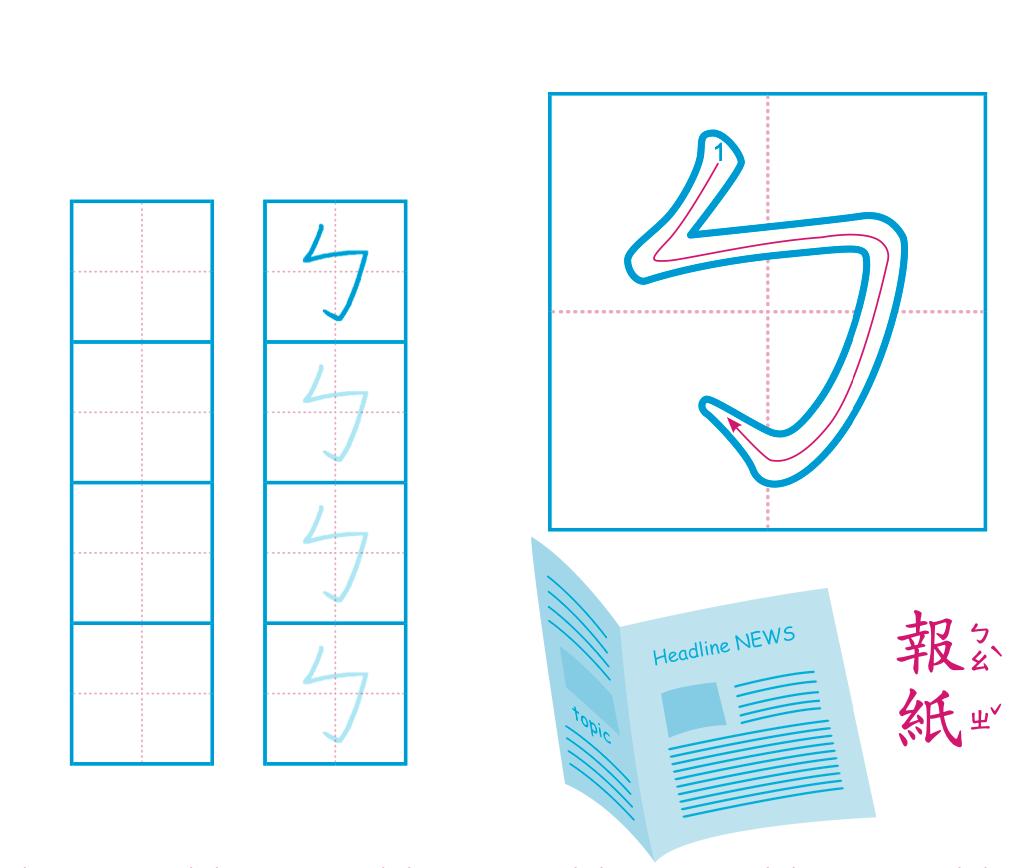
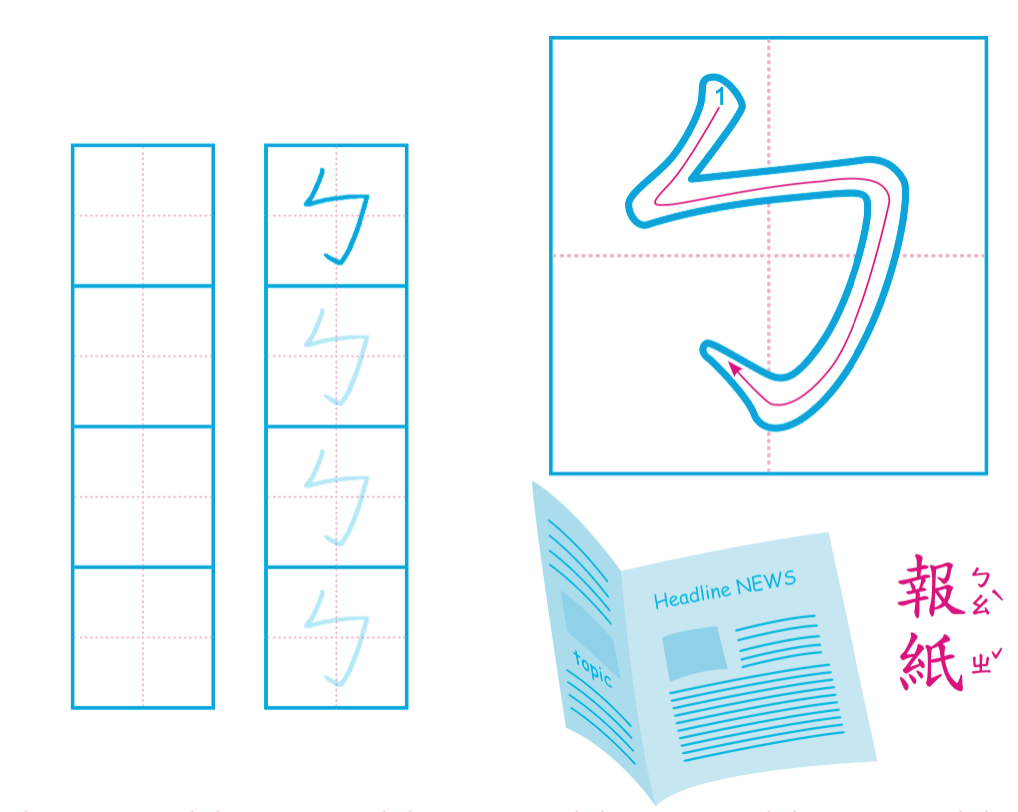
Add features to change level content based on id in drawzhuyin

diff --git a/view/game/drawZhuyin.html b/view/game/drawZhuyin.html
@@ -1,45 +1,48 @@
 <!DOCTYPE html>
 <html lang="en">
-<head>
-    <meta charset="UTF-8">
-    <meta name="viewport" content="width=device-width, initial-scale=1.0">
-  
-    <link rel="stylesheet" href="../../CSS/game/drawZhuyin.css">
-    <link rel="stylesheet" href="../../CSS/interface.css">
-    <link rel="stylesheet" href="../../CSS/icon.css">
-</head>
-<body class="style" background="../../photo/background.png" >
-   <div class="zhuyin"> 
-    <img  src="../../image/zhuyin/b.png"  />
-    <div  class="anvas write" >
-      <canvas  class="draw" width="120px" height="122.5px"></canvas>
-      <canvas  class="draw" width="120px" height="122.5px"></canvas>
-      <canvas  class="draw" width="120px" height="122.5px"></canvas>
-      <canvas  class="draw" width="120px" height="122.5px"></canvas>
-    </div>
-    <div  class="anvas write2" >
-      <canvas  class="draw" width="120px" height="122.5px"></canvas>
-      <canvas  class="draw" width="120px" height="122.5px"></canvas>
-      <canvas  class="draw" width="120px" height="122.5px"></canvas>
-      <canvas  class="draw" width="120px" height="122.5px"></canvas>
-    </div>
-</div>
-   <script src="../../model/game/drawZhuyin.js"></script>
 
-   <div>
+<head>
+  <meta charset="UTF-8">
+  <meta name="viewport" content="width=device-width, initial-scale=1.0">
+
+  <link rel="stylesheet" href="../../CSS/game/drawZhuyin.css">
+  <link rel="stylesheet" href="../../CSS/interface.css">
+  <link rel="stylesheet" href="../../CSS/icon.css">
+
+</head>
+
+<body class="style" background="../../photo/background.png" onload="onload()">
+  <div class="zhuyin">
+    <img src="../../image/zhuyin/b.png" />
+    <div class="anvas write">
+      <canvas class="draw" width="120px" height="122px"></canvas>
+      <canvas class="draw" width="120px" height="122px"></canvas>
+      <canvas class="draw" width="120px" height="122px"></canvas>
+      <canvas class="draw" width="120px" height="122px"></canvas>
+    </div>
+    <div class="anvas write2">
+      <canvas class="draw" width="120px" height="122px"></canvas>
+      <canvas class="draw" width="120px" height="122px"></canvas>
+      <canvas class="draw" width="120px" height="122px"></canvas>
+      <canvas class="draw" width="120px" height="122px"></canvas>
+    </div>
+  </div>
+  <script src="../../model/game/drawZhuyin.js"></script>
+
+  <div>
     <a href="../../exam_phonetic copy.html" class="sosfloat" id="menu-share">
       <i class="fab fa-share my-float"><img src="../../photo/help.png" width="70%"></i>
-      </a>
+    </a>
   </div>
-<div>
+  <div>
     <a href="../../view/level/nantou.html" class="returnfloat" id="menu-share">
-      <i class="fab fa-share return-float"><img src="../../photo/return.png" ></i>
-      </a>
+      <i class="fab fa-share return-float"><img src="../../photo/return.png"></i>
+    </a>
   </div>
   <div>
     <a href="../../test1.html" class="homefloat" id="menu-share">
       <i class="fab fa-share my-float"><img src="../../photo/gobackhome.png" width="70%"></i>
-      </a>
+    </a>
   </div>
 </body>
 

diff --git a/view/level/Nantou.html b/view/level/Nantou.html
@@ -30,12 +30,21 @@
             top: -140px;
             left: -428px;
         }
+        .level2{
+            width: 110px;
+            position: relative;
+            z-index: 10;
+            top: -240px;
+            left: -428px;
+        }
     </style>
 </head>
-<body class="style" background="../../image/map/kraftPaper2.jpg">
+<body class="style" background="../../image/map/kraftPaper2.jpg" >
     <div class="map"> 
         <img class="terrain" src="../../image/map/Nantou.png" />
-        <img class="level1" src="../../image/icon/herbal-tea.png" onclick="javascript:location.href='../../view/game/b.html'" />
+        <img class="level1" src="../../image/icon/herbal-tea.png" onclick="location.href='../../view/game/drawzhuyin.html?id=b'" />
+        <img class="level2" src="../../image/icon/herbal-tea.png" onclick="location.href='../../view/game/drawzhuyin.html?id=p'" />
+       
     </div>
     <div>
         <a href="../../exam_phonetic copy.html" class="sosfloat" id="menu-share">

diff --git a/model/game/drawZhuyin.js b/model/game/drawZhuyin.js
@@ -35,8 +35,16 @@
         });
         });
         
+        function onload() {
 
-      
+            let id = (new URLSearchParams(location.search)).get("id");
+            console.log(`id=${id}`)
+            if(id!=null){
+                let zhuyin = document.querySelector(".zhuyin img");
+                zhuyin.src = `../../image/zhuyin/${id}.png`;
+            }
+          }
+    
 
         function drawLine(context, x1, y1, x2, y2) {
             context.beginPath();

diff --git a/CSS/game/drawZhuyin.css b/CSS/game/drawZhuyin.css
@@ -1,8 +1,4 @@
-*{
-    display:flex;
-    justify-content: center;
-    align-items: center;
-}
+
 body{
     width: 100%;
     
@@ -22,18 +18,18 @@ body{
 .draw{
     border: 1px blue solid;
     width: 120px;
-    height: 122.5px;
+    height: 122px;
 }
 .write{
     position: absolute;
     left: 26.3%;
-    top: 23.5%;
+    top: 18%;
     z-index: 10;
 }
 .write2{
     position: absolute;
     left: 7.3%;
-    top: 23.5%;
+    top: 18%;
     z-index: 10;
 }
 .zhuyin{
